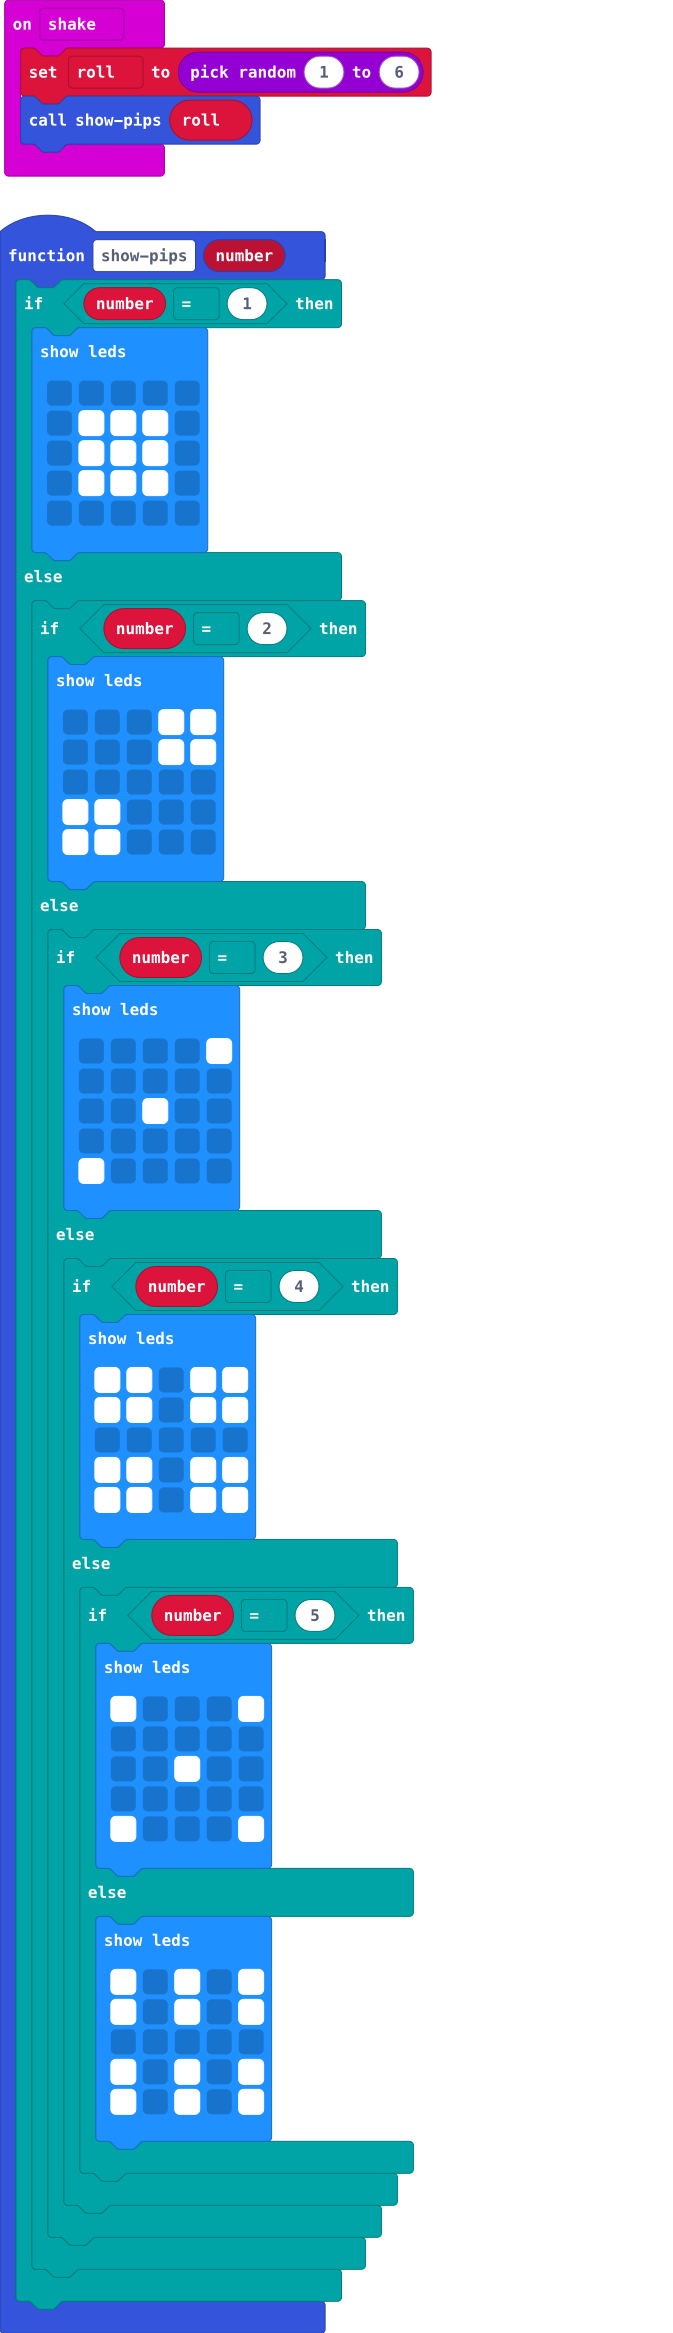
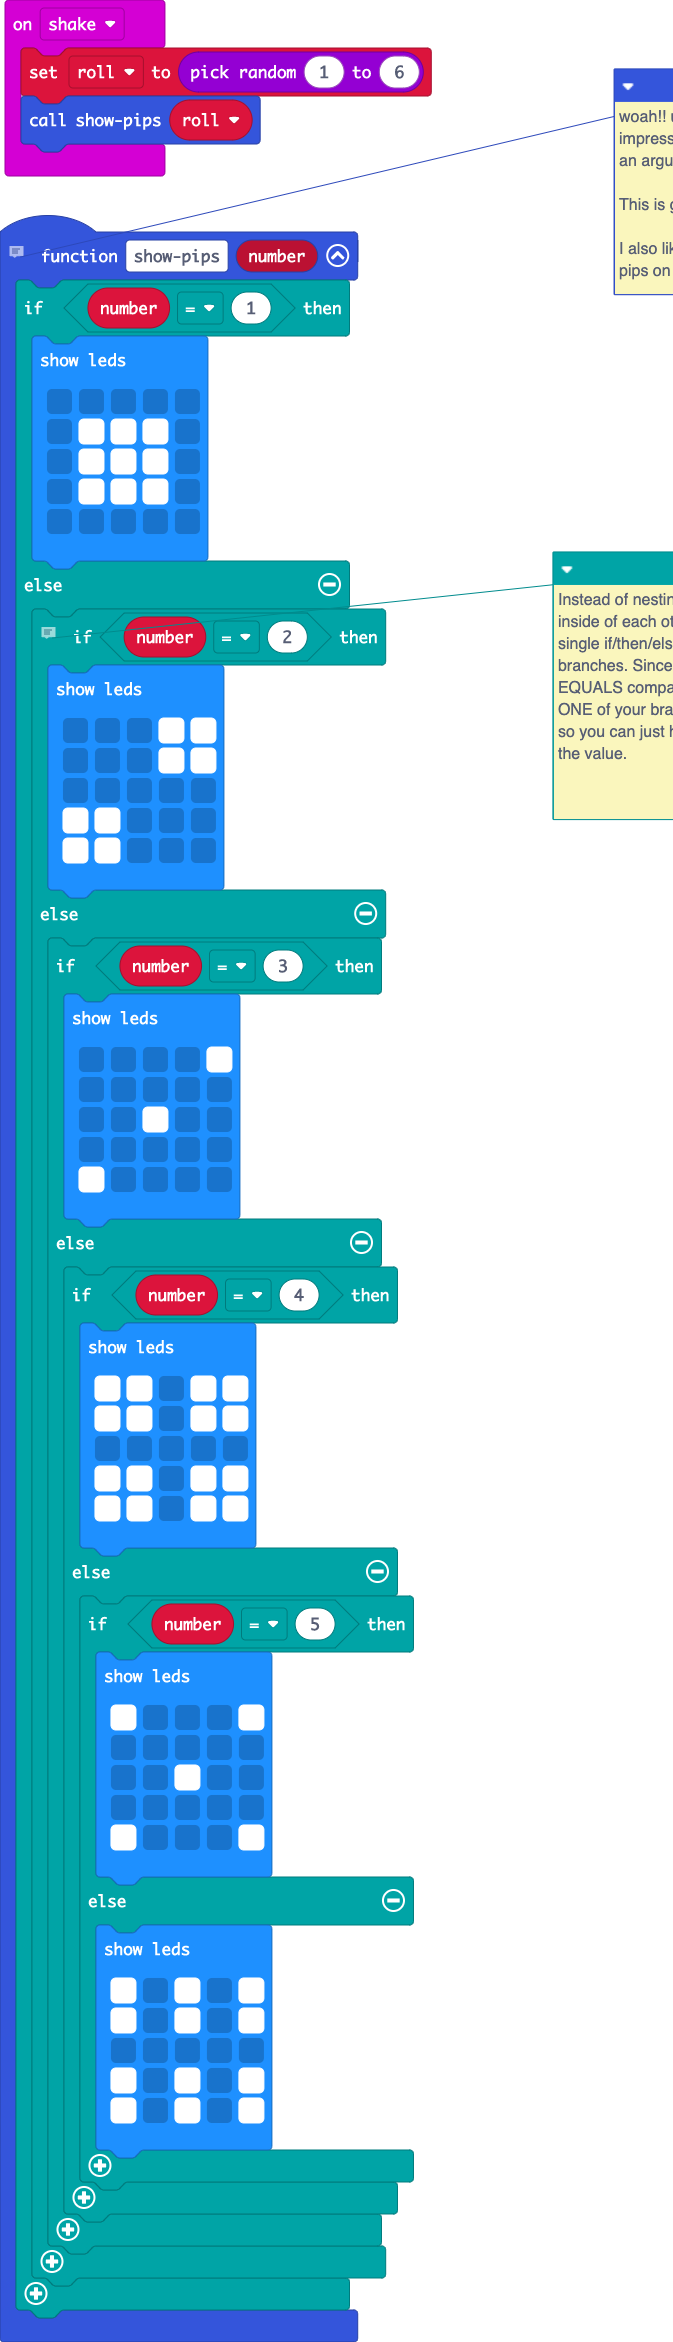
Update main.blocks, main.ts

diff --git a/main.ts b/main.ts
@@ -3,6 +3,11 @@ input.onGesture(Gesture.Shake, function () {
     roll = randint(1, 6)
     showpips(roll)
 })
+// woah!! using functions. Very impressive.  AND you are passing an argument to your function.
+// 
+// This is great stuff. 
+// 
+// I also like the way you designed the pips on your die face.
 function showpips (number: number) {
     if (number == 1) {
         basic.showLeds(`
@@ -13,6 +18,7 @@ function showpips (number: number) {
             . . . . .
             `)
     } else {
+        // Instead of nesting the if/then statements inside of each other, it would be better as a single if/then/else with multiple else branches. Since you are using the EQUALS comparison, you know that only ONE of your branches can possibly be true, so you can just have a series of checks on the value.
         if (number == 2) {
             basic.showLeds(`
                 . . . # #
